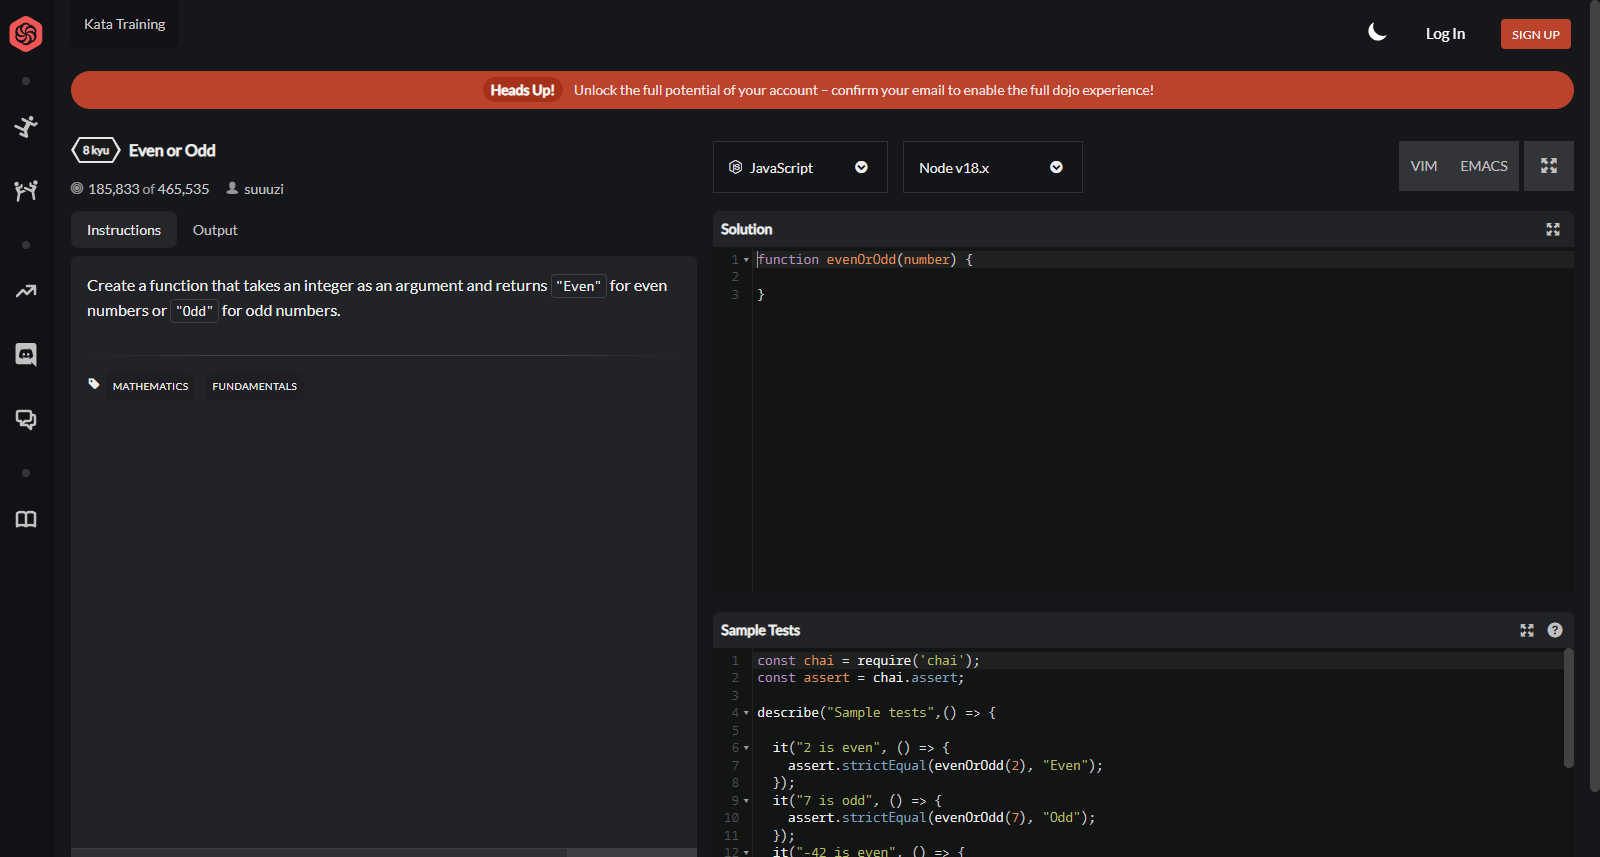
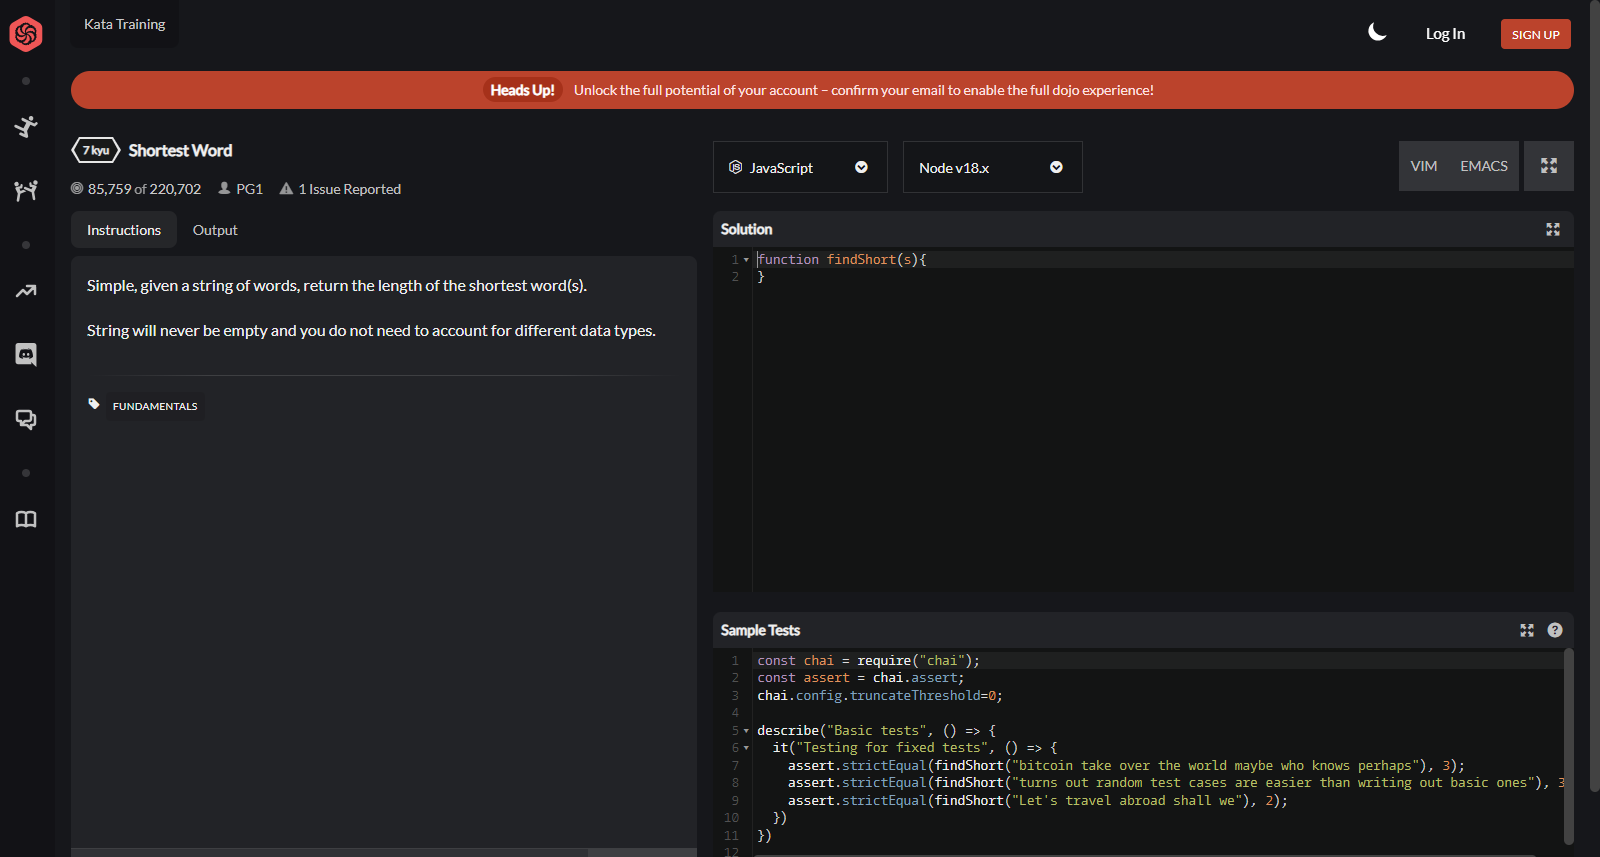
Bug fix with java namings

diff --git a/src/service/CreatorService.java b/src/service/CreatorService.java
@@ -116,24 +116,20 @@ public class CreatorService {
      */
     public void preparedCode(String screenshot, File folder, String language, String kyu, String title) {
         String screenshotData = ScreenshotService.preparedData(screenshot, language);
-        String[] names = screenshotData.split(" ");
-        List<String> javaGroovyClass = new ArrayList<>();
-        for (int i = 0; i < names.length; i++) {
-            if (names[i].equals("class")) {
-                javaGroovyClass.add(names[i + 1]);
-            }
-        }
         File solutionClass;
         File testClass;
         switch (language) {
             case "java" -> {
-                solutionClass = new File(folder, javaGroovyClass.get(0) + ".java");
-                testClass = new File(folder, javaGroovyClass.get(1) + ".java");
+                String[] classAndTest = screenshotData.split("class");
+                String classString = classAndTest[1].substring(0, classAndTest[1].indexOf('{')).trim();
+                String testString = classAndTest[2].substring(0, classAndTest[2].indexOf('{')).trim();
+                solutionClass = new File(folder, classString + ".java");
+                testClass = new File(folder, testString + ".java");
                 try {
                     FileWriter createSolution = new FileWriter(solutionClass);
                     FileWriter createTest = new FileWriter(testClass);
-                    createSolution.write("package " + kyu + "." + title + ".java;\n\npublic class " + javaGroovyClass.get(0) + " {\n\t// Solution\n}");
-                    createTest.write("package " + kyu + "." + title + ".java;\n\npublic class " + javaGroovyClass.get(1) + " {\n\t// Tests\n}");
+                    createSolution.write("package " + kyu + "." + title + ".java;\n\npublic class " + classString + " {\n\t// Solution\n}");
+                    createTest.write("package " + kyu + "." + title + ".java;\n\npublic class " + testString + " {\n\t// Tests\n}");
                     createSolution.close();
                     createTest.close();
                 } catch (IOException e) {

diff --git a/src/service/ScreenshotService.java b/src/service/ScreenshotService.java
@@ -11,7 +11,6 @@ import javax.imageio.ImageIO;
 import java.awt.image.BufferedImage;
 import java.io.File;
 import java.io.IOException;
-import java.util.Objects;
 import java.util.concurrent.TimeUnit;
 
 /**
@@ -45,12 +44,8 @@ public class ScreenshotService {
         }
         File scrFile = ((TakesScreenshot) driver).getScreenshotAs(OutputType.FILE);
         try {
-            //Скрин полного экрана || правой части экрана
             BufferedImage fullImg = ImageIO.read(scrFile);
-            BufferedImage rightPart = fullImg.getSubimage(rect.getWidth() / 2, 0, rect.getWidth() / 2, rect.getHeight());
-            ImageIO.write(Objects.equals(language, "groovy")
-                    || Objects.equals(language, "javascript") ?
-                    fullImg : rightPart, "png",
+            ImageIO.write(fullImg, "png",
                     new File("C:\\Users\\seera\\IdeaProjects\\Creator\\screen\\" + language + ".png"));
         } catch (IOException e) {
             e.printStackTrace();

diff --git a/src/CreatorRunner.java b/src/CreatorRunner.java
@@ -7,7 +7,7 @@ import service.CreatorService;
 public class CreatorRunner {
     public static void main(String[] args) {
         //Добавить в 'challenge' ID или название задачи
-        String challenge = "53da3dbb4a5168369a0000fe";
+        String challenge = "57cebe1dc6fdc20c57000ac9";
         String urlApi = "https://www.codewars.com/api/v1/code-challenges/" + challenge;
         String screenshot = "https://www.codewars.com/kata/" + challenge + "/train/";
         CreatorService creatorService = new CreatorService();
